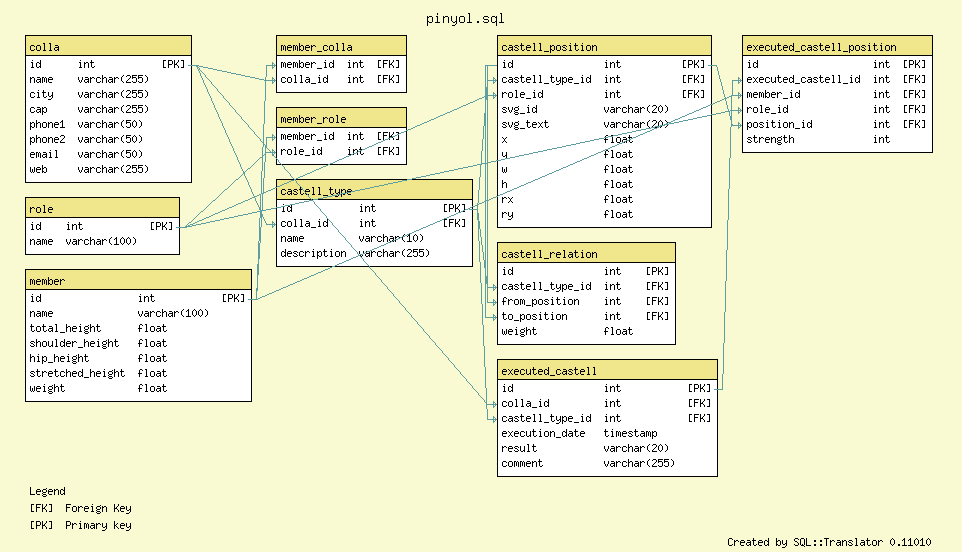
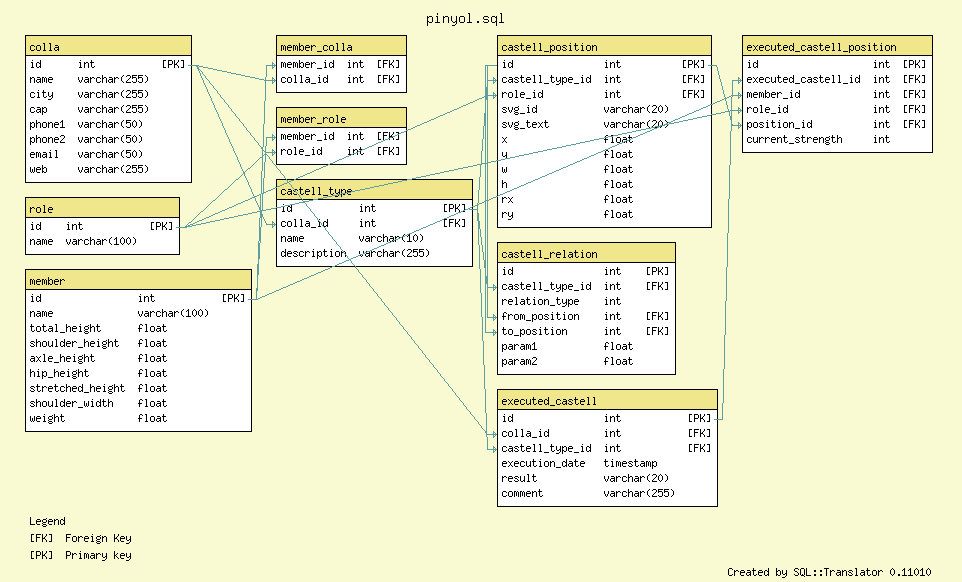
added fields to member, improved dummy data

diff --git a/build_ip.py b/build_ip.py
@@ -17,7 +17,7 @@ def get_members(db, colla, pos):
     """
     c = db.cursor()
     c.execute("""
-select member.id 
+select member.id, total_height, shoulder_height, hip_height, stretched_height, weight 
 from member
 left join member_role on member_role.member_id = member.id
 left join castell_position on member_role.role_id = castell_position.role_id 
@@ -45,21 +45,28 @@ db = MySQLdb.connect(user="pinyol", passwd="pinyol01", db="pinyol")
 ineqs = []
 members_in_position = dict()
 for pos in get_positions(db, castell_type_id):
-    members_in_position[pos[0]] = get_members(db, colla_id, pos[0])
+    pos_id = pos[0]
+    members_in_position[pos_id] = get_members(db, colla_id, pos_id)
     ineq = ''
-    for mem in members_in_position[pos[0]]:
-        ineq = ineq + var(mem, pos[0]) + " + "
+    for mem in members_in_position[pos_id]:
+        ineq = ineq + var(mem, pos_id) + " + "
     ineqs.append(ineq[:-3] + " <= 1")
 
 for rel in get_relations(db, castell_type_id):
-    if rel[3] is not None:
+    rel_type, from_pos, to_pos, tolerance = rel[2:6]
+    if rel_type == 1: # total height must weakly decrease from from_pos to to_pos
+        if to_pos is None:
+            print "Error in relation ", rel, ": to_pos is None"
+            break
         ineq = ''
-        from_mems = members_in_position[rel[2]]
+        from_mems = members_in_position[from_pos]
         for from_mem in from_mems:
-            ineq = ineq + var(from_mem, rel[2]) + " + "
+            total_height = from_mem[1]
+            ineq = ineq + str(total_height) + " " + var(from_mem, from_pos) + " + "
         ineq = ineq[:-3] + " - "
-        to_mems = members_in_position[rel[3]]
+        to_mems = members_in_position[to_pos]
         for to_mem in to_mems:
-            ineq = ineq + var(to_mem, rel[3]) + " - "
-        ineqs.append(ineq[:-3] + " <= " + str(rel[4]))
+            total_height = to_mem[1]
+            ineq = ineq + str(total_height) + " " + var(to_mem, to_pos) + " - "
+        ineqs.append(ineq[:-3] + " <= " + str(tolerance))
 print ineqs
